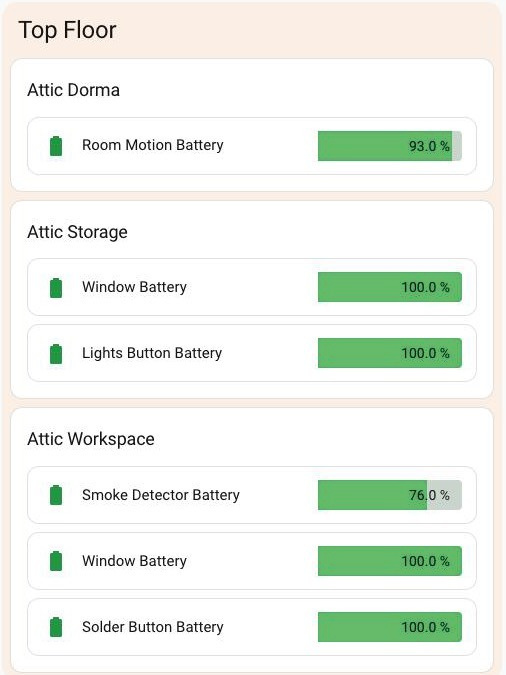
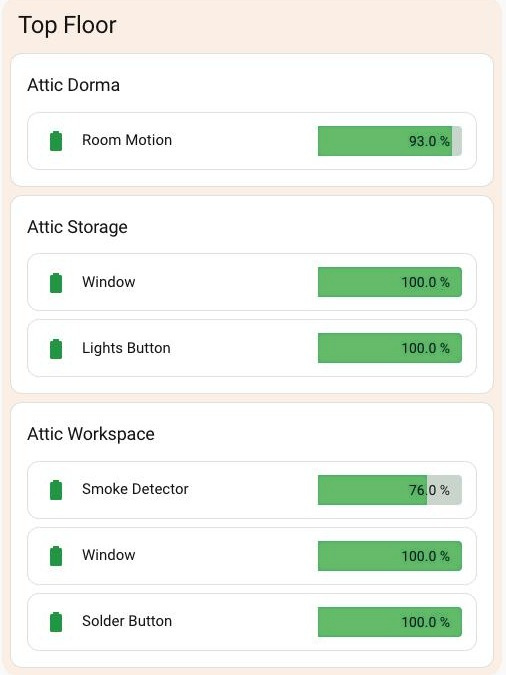
Strip "Battery" from row names, and refresh the screenshots
Every battery sensor is named "... Battery", which is noise in a card already
titled with the room. bar-card's `name` is a plain string with no template
support, and auto-entities applies one options block to every match, so neither
can produce a per-row computed name. The real text is hidden and a trimmed copy
written back with a bar-card-name::after pseudo-element.

Display-only: no entity is renamed, nothing outside the view changes.

Two traps documented in shared/README.md, both found by reading the rendered
names back out of the DOM:
  - integrations disagree on case ("Battery level" from the companion app vs
    "Battery" from Zigbee), so the replaces must run longest-first
  - some entities are called nothing else ("Battery Level" in full), so a
    fallback is needed or the row renders blank

Screenshots recaptured from the live view and colour-corrected as before; bar
fill samples as rgb(102,187,106) in all five images.

diff --git a/shared/README.md b/shared/README.md
@@ -11,6 +11,7 @@ Four things in this recipe are not obvious from any card's documentation. If you
 | [The corners were square because of an unset variable](#the-corners-were-square-because-of-an-unset-variable) | Part 3 |
 | [Severity order, and why descending](#severity-order-and-why-descending) | Part 3 |
 | [Contrast: why the green is not `--success-color`](#contrast-why-the-green-is-not---success-color) | Part 3 |
+| [Trimming the name without renaming anything](#trimming-the-name-without-renaming-anything) | Part 3 |
 
 ---
 
@@ -129,6 +130,41 @@ Two things worth taking away:
 2. **`--error-color` fails against both black (4.29:1) and white (4.29:1).** It gets away with it here only because red never appears above 10%, where the fill is a stub at the far left and the text is over the pale track. If you move the value outside the bar, or change the thresholds, re-check this.
 
 The icon keeps the saturated `--success-color`, so the severity colour still reads strongly at a glance; only the bar fill is lightened.
+
+## Trimming the name without renaming anything
+
+Battery sensors are usually called "Window **Battery**", "Smoke Detector **Battery**". In a card already titled with the room, where every row is a battery, that word is noise on every line.
+
+The obvious fix — renaming the entities — is the wrong one. Those names are doing useful work everywhere else: other dashboards, voice assistants, notifications. The word is only redundant *here*.
+
+bar-card picks the name like this (`src/bar-card.ts`):
+
+```js
+const name = config.name ? config.name : state.attributes.friendly_name;
+```
+
+`name` is a plain string. bar-card has **no template support at all** — no `[[[ ]]]`, nothing — and auto-entities applies one `options` block to every matched entity, so a single static `name` would label every row identically. Neither can give you a per-row computed name.
+
+So hide the real text and write a trimmed copy back with a pseudo-element:
+
+```css
+{% set fn = state_attr(config.entity,'friendly_name') %}
+{% set nm = fn | replace(' Battery Level','') | replace(' Battery level','') | replace(' Battery','') | trim %}
+bar-card-name { font-size: 0 !important; }
+bar-card-name::after {
+  content: "{{ nm if nm else fn }}";
+  font-size: 15px !important;
+}
+```
+
+Display-only. Nothing outside this view changes, and the rows stay self-maintaining.
+
+**Two traps worth knowing**, both found by reading the rendered names back out of the DOM rather than looking at the page:
+
+1. **Integrations disagree on capitalisation.** Zigbee sensors end in "Battery"; Home Assistant companion-app sensors end in "Battery level", lowercase *l*. A chain handling only `' Battery Level'` and `' Battery'` leaves "Darren Pixel 7 Pro **level**" behind. Order the replaces longest-first.
+2. **Some entities are called nothing else.** A robot vacuum's battery sensor can have the friendly name "Battery Level" in full, so stripping leaves an empty string and the row renders blank. The `nm if nm else fn` fallback keeps the original in that case.
+
+The trade-off: the name stops being real selectable text, and a tooltip still shows the untrimmed value.
 
 ---
 

diff --git a/parts/03-battery-row/README.md b/parts/03-battery-row/README.md
@@ -42,6 +42,7 @@ Four `card_mod` fixes. All four are explained in full, with the reasoning, in [s
 2. **Corner radius** — bar-card falls back to `--ha-card-border-radius`, which many themes never set, so it computes to `0`. Set to `0 4px 4px 0`: **square on the left on purpose**, because rounding that edge clips the fill on a nearly-flat battery.
 3. **Row padding** — `entity_row: true` zeroes it. At `0` the bar fills the full row height and the icon jams against the card edge. `13px 14px 13px 16px` restores the proportions.
 4. **Fill colour** — the green is `#66bb6a`, not `var(--success-color)`. The latter gives the percentage only 5.58:1 contrast; this gives 7.79:1. [The measurements](../../shared/README.md#contrast-why-the-green-is-not---success-color).
+5. **Trimmed the name** — every battery sensor here is called "… Battery", which is pure noise in a card already titled with the room and full of batteries. bar-card's `name` is a plain string, so the real text is hidden and a trimmed copy written back with a pseudo-element. **No entity is renamed** — it's display-only, and only on this view. [How, and the two traps](../../shared/README.md#trimming-the-name-without-renaming-anything).
 
 ## Known rough edges
 

diff --git a/README.md b/README.md
@@ -44,7 +44,7 @@ shared/
 |---|---|---|---|
 | 1 | [Floor section](parts/01-floor-section/README.md) | One tinted, full-width block per floor, with the floor's name | native `grid` section + Mushroom title |
 | 2 | [Room card](parts/02-room-card/README.md) | One titled card per room, filled from the area registry, lowest battery first | `custom:auto-entities` + native `entities` |
-| 3 | [Battery row](parts/03-battery-row/README.md) | One battery: coloured icon, name, and a bar with the percentage inside it | `custom:bar-card` + `card-mod` |
+| 3 | [Battery row](parts/03-battery-row/README.md) | One battery: coloured icon, trimmed name, and a bar with the percentage inside it | `custom:bar-card` + `card-mod` |
 
 They nest, outermost first:
 
